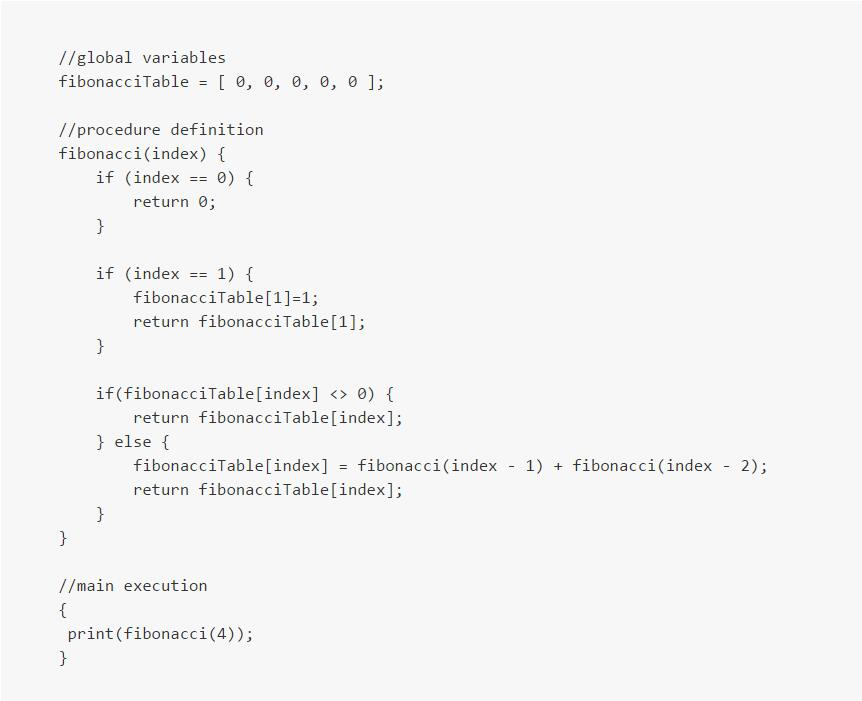
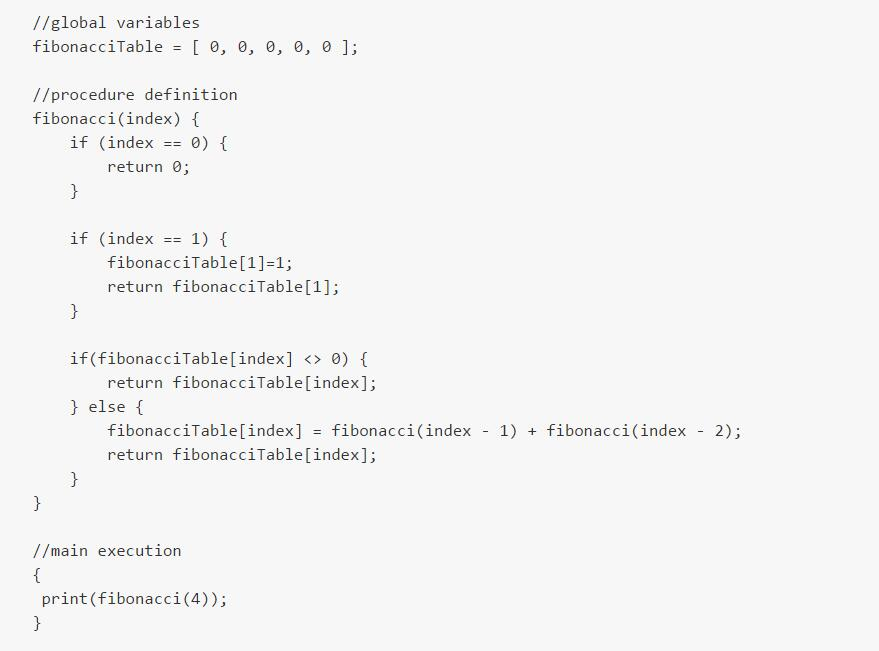
updated project page to code block

diff --git a/projects.md b/projects.md
@@ -22,34 +22,7 @@ A simple "console" parser implemented with PLY (Python Lex-Yacc). Supports if st
 
 Sample executable code:
 
-<pre>
-    <code class="java">
- #global variables
- fibonacciTable = [ 0, 0, 0, 0, 0 ];
- 
- #procedure definition
- fibonacci(index) {
-     if (index == 0) {
-         return 0;
-     }
-     if (index == 1) {
-         fibonacciTable[1]=1;
-         return fibonacciTable[1];
-     }
-     if(fibonacciTable[index] <> 0) {
-         return fibonacciTable[index];
-     } else {
-         fibonacciTable[index] = fibonacci(index - 1) + fibonacci(index - 2);
-         return fibonacciTable[index];
-     }
- }
- 
- #main execution
- {
-     print(fibonacci(4));
- }
- </code>
-</pre>
+![screenshot](../images/seawolf_script.jpg "Regio Vinco Map Editor")
 
 <br><br>
 
